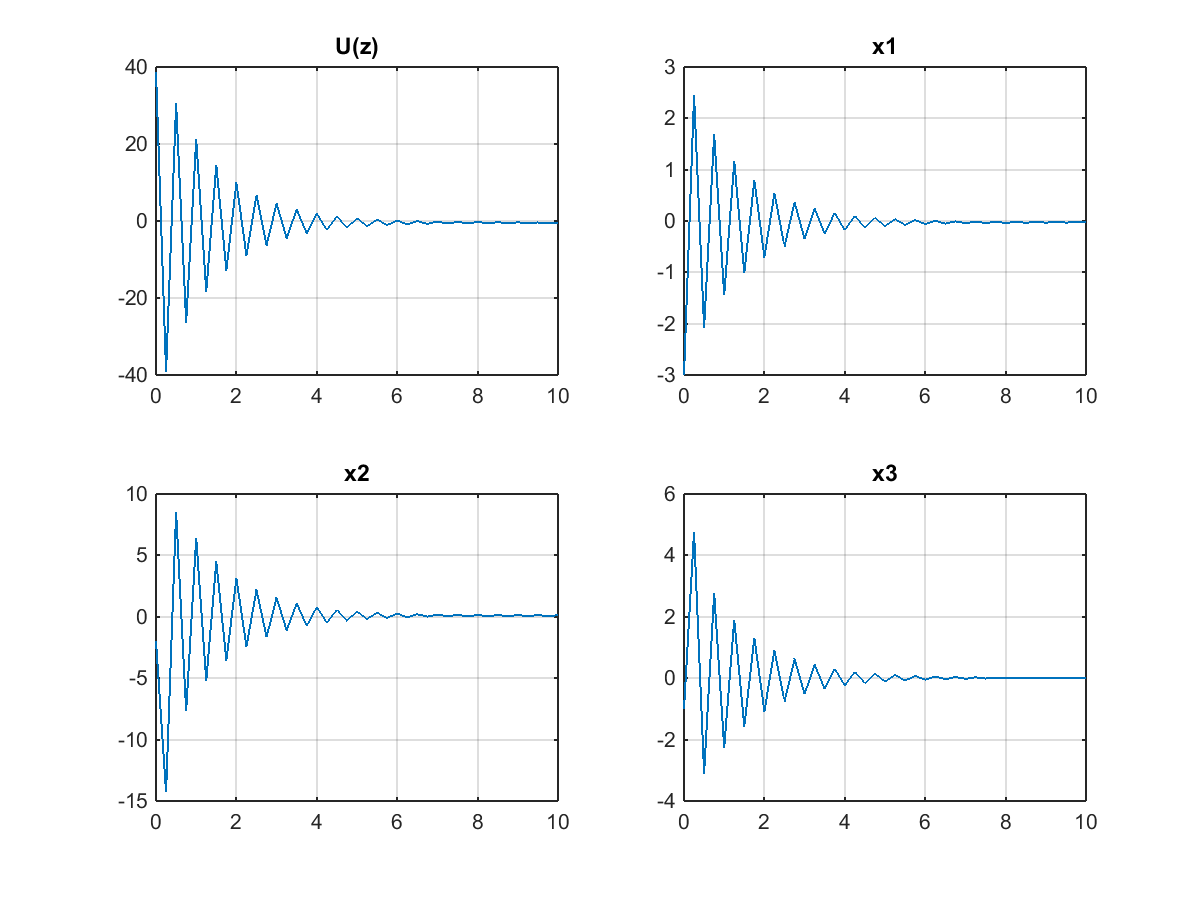
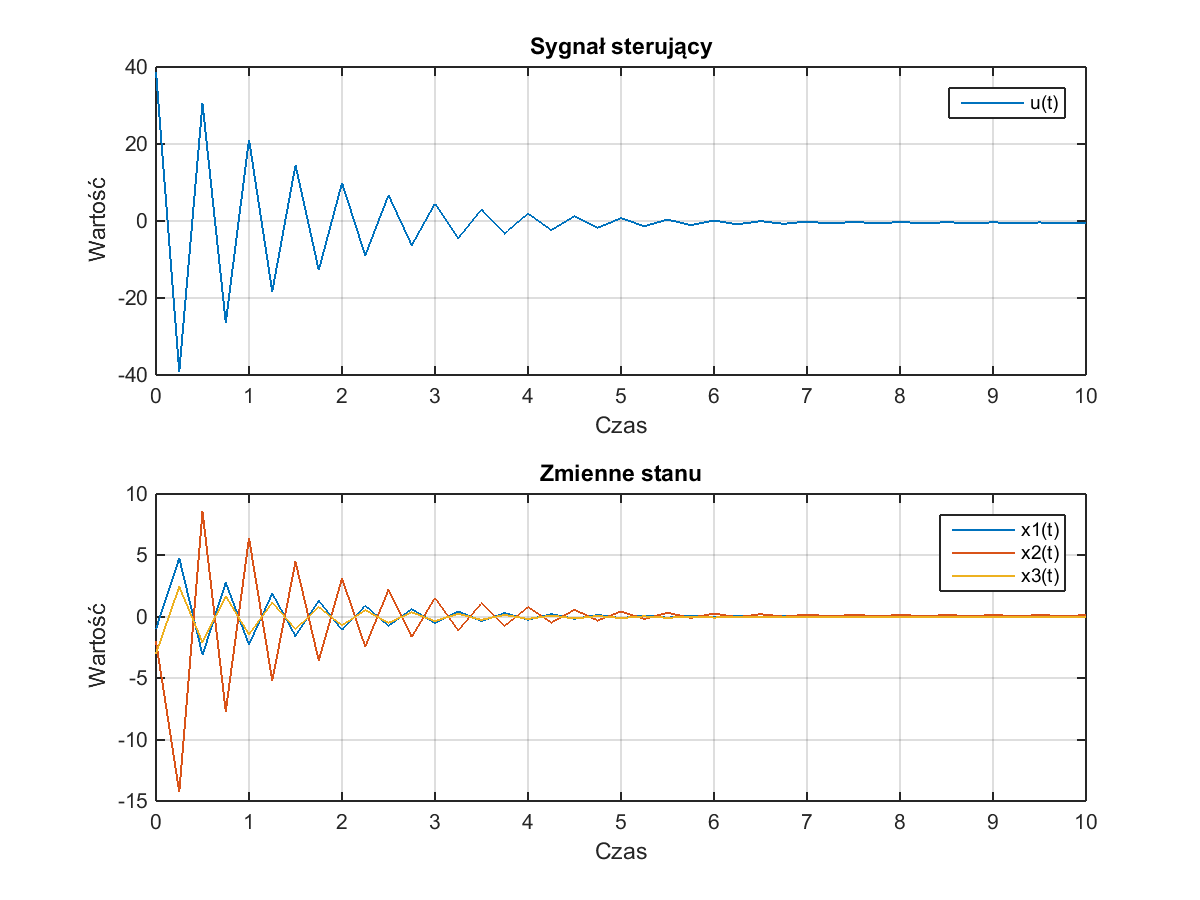
nowe wykresy do zad_6

diff --git a/projekt 1/zad_6/zad_6.m b/projekt 1/zad_6/zad_6.m
@@ -1,4 +1,4 @@
-load('../dane_2_etap.mat');
+load('../dane_po_zad_4.mat');
 
 x0 = [ -1; -2; -3 ];
 xt = [ 0; 0; 0; ];
@@ -25,15 +25,20 @@ set_param(model_cs,'Solver','ode45',...
                 'StartTime','0', 'StopTime', num2str(tkonc), ...
                 'SaveState','on', 'SaveOutput','on');
 
-if true            
-zb = 0.6;
+if true   
+% Wariant 1 - trzy bieguny rzeczywiste
+zb = -2:0.05:2;
 for k=1:1:length(zb)
-    name = strcat('Wariant 1, trzy bieguny rzeczywiste zb=',num2str(zb(k)));
+    zb(k)
     K = acker(A2, B2, [zb(k) zb(k) zb(k)]);
+    K_real = K;
     sim_model = sim(model, model_cs);
     x= sim_model.get('xout');
     y = sim_model.get('yout');
     t = sim_model.get('tout');
+    if max(y)>10^4 || max(x(:,1))>10^3 || max(x(:,2))>10^3 || max(x(:,3))>10^3
+        continue;
+    end
     
     figure(1)
     subplot(2,1,1);
@@ -59,21 +64,24 @@ end
 end
 
 if true
-    name = 'Bieguny zespolone, ';
-    a=0.25;
-    b=0.02;
+% Wariant 2 - Bieguny zespolone
+    a=-2:0.05:2;
+    b=0.05:0.05:2;
     poles = zeros(length(a-1)*length(b-1),3);
     for na=1:1:length(a)
         for nb=1:1:length(b)
+            a(na)
+            b(nb)
         z1 = 0.15;
         z2 = a(na) + b(nb)*j;
         z3 = a(na) - b(nb)*j;
         K = place(A2, B2, [z1 z2 z3]);
+        K_imag = K;
         sim_model = sim(model, model_cs);
         x= sim_model.get('xout');
         y = sim_model.get('yout');
         t = sim_model.get('tout');
-        if max(y)>10^3 || max(x(:,1))>10^3 ||max(x(:,2))>10^3 ||max(x(:,3))>10^3
+        if max(y)>10^4 || max(x(:,1))>10^3 || max(x(:,2))>10^3 || max(x(:,3))>10^3
             continue;
         end
         figure(1)

diff --git a/projekt 1/zad_8/zad_8.m b/projekt 1/zad_8/zad_8.m
@@ -1,0 +1,1 @@
+load('../dane_po_zad_6.mat');
